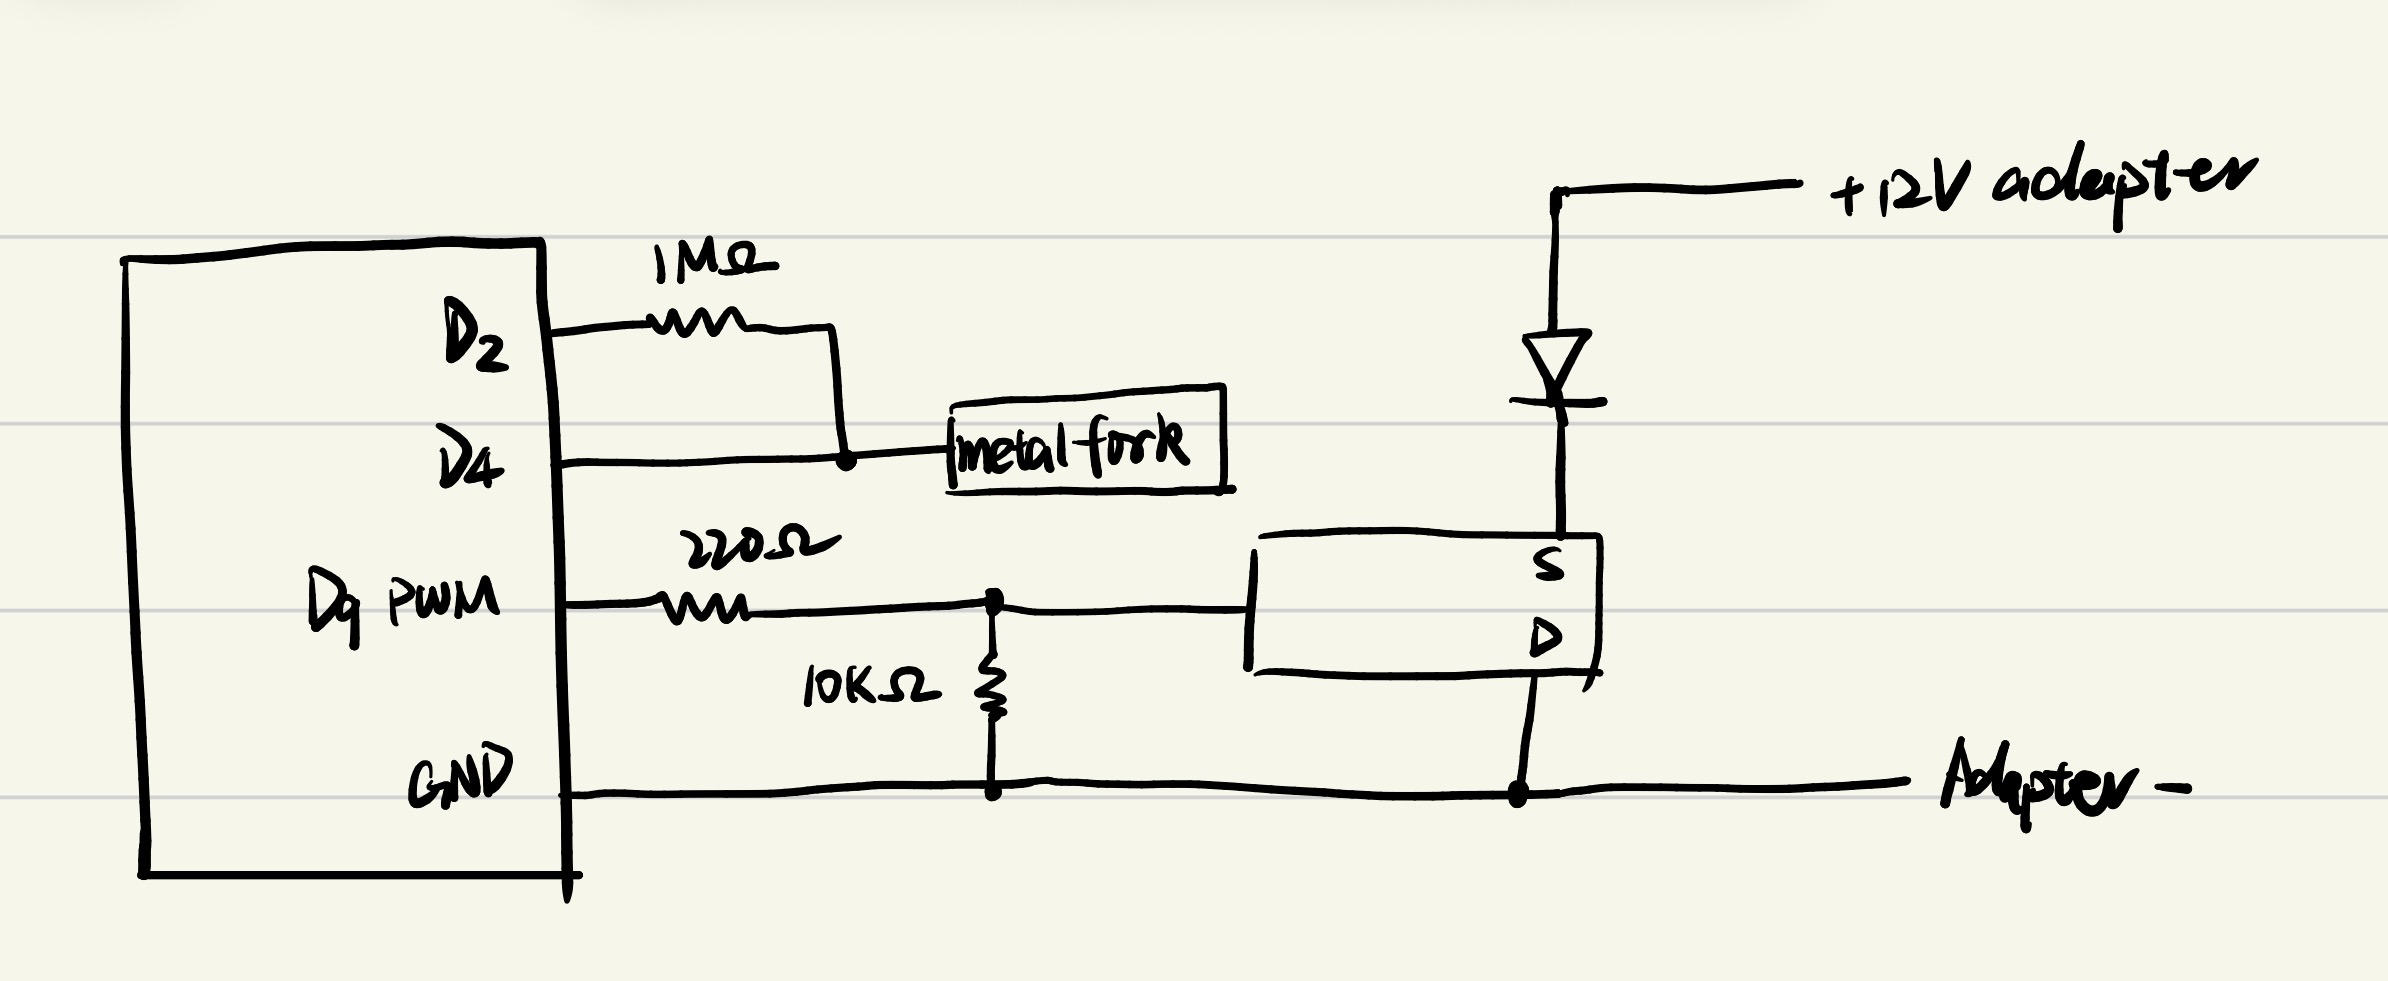
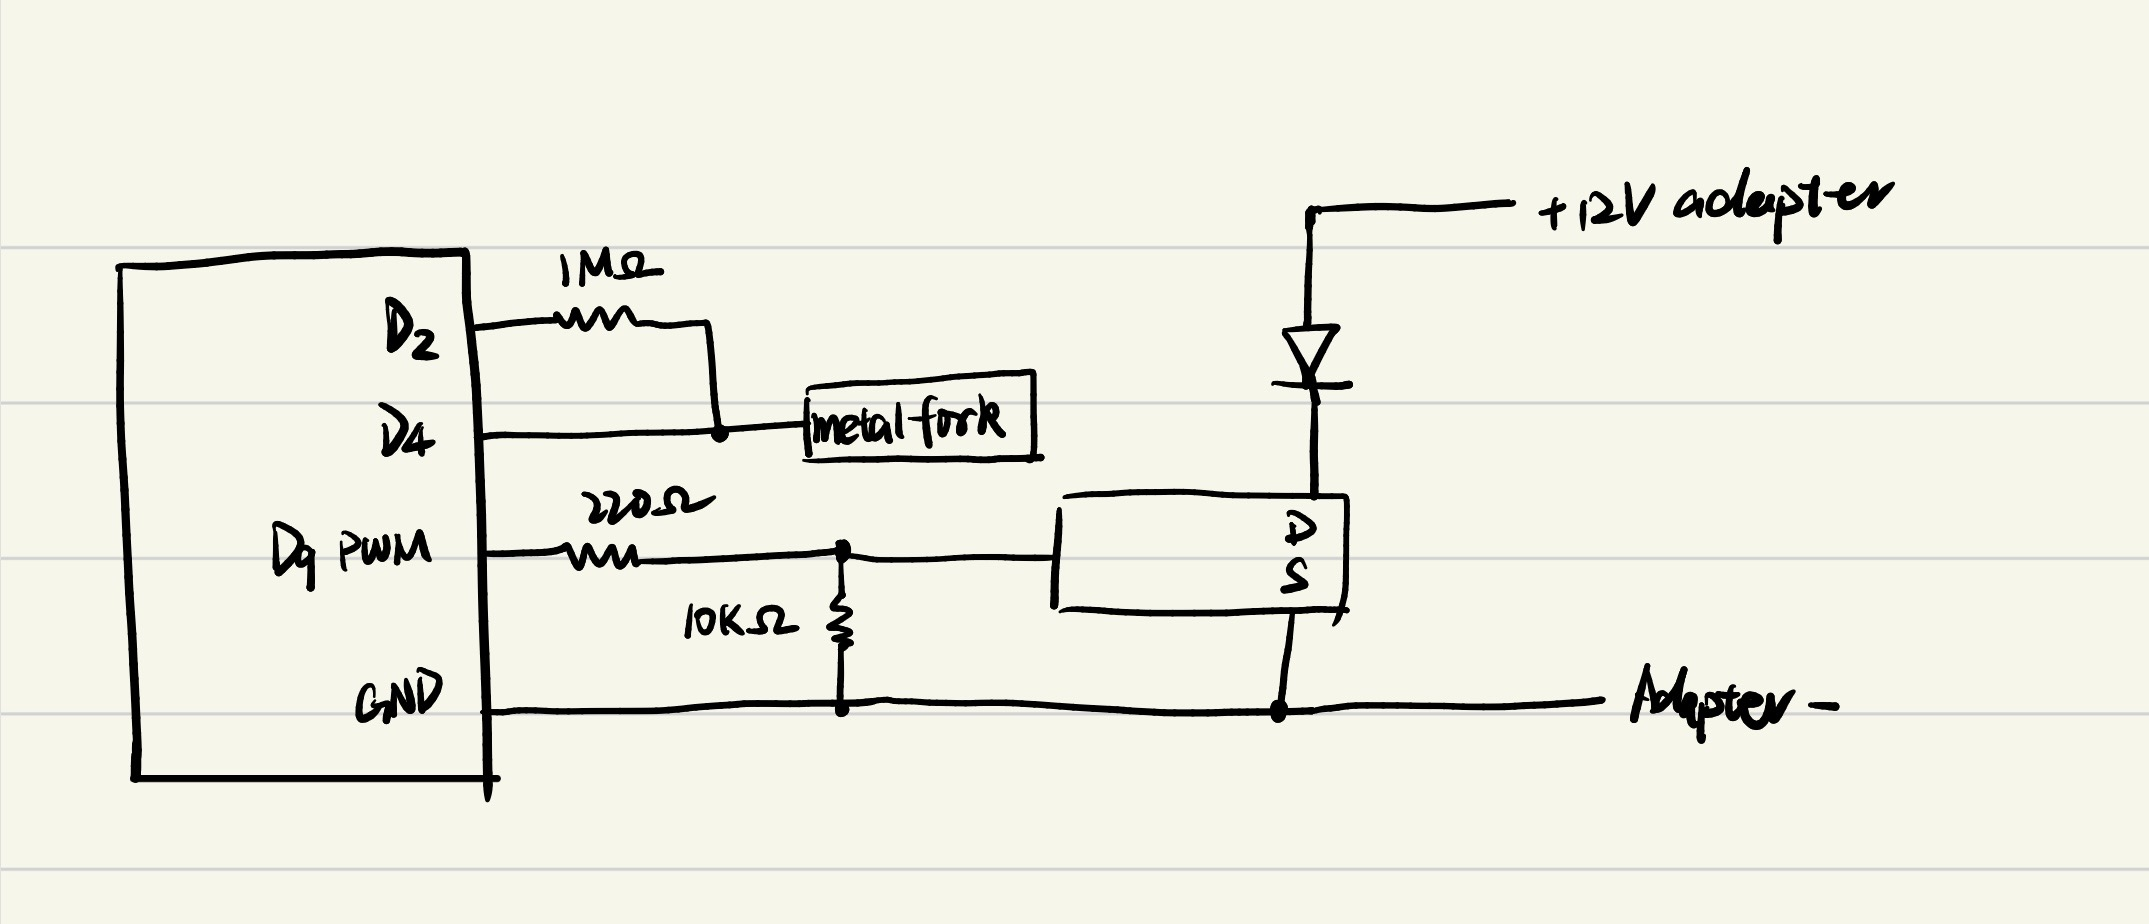
4

Changed region(s): [[0.0, 0.1515, 1.0, 0.9091], [0.0, 0.9394, 1.0, 0.9697], [0.0312, 0.8485, 0.0624, 0.8788]]

diff --git a/docs/assignment5.html b/docs/assignment5.html
@@ -11,6 +11,9 @@
     .a5-link { color:inherit; text-underline-offset:.2em; }
     .a5-question p + p, .a5-question figure, .a5-question pre, .a5-question ul { margin-top:1rem; }
     .a5-question figure { max-width:850px; }
+    .a5-motor-copy p { margin:1rem 0 0; font-size:clamp(1.125rem, 1.45vw, 1.3rem); line-height:1.55; }
+    .a5-motor-figure { align-self:start; }
+    .a5-question .a5-motor-figure { margin-top:0; }
     .a5-question pre { white-space:pre-wrap; }
     .a5-code { max-height:none; min-width:0; overflow-x:auto; }
     .code-section > * { min-width:0; }
@@ -52,7 +55,7 @@
       <div class="media-copy media-copy--wide">
         <figure class="project-figure">
           <a href="assets/a5-schematic.jpg"><img src="assets/a5-schematic.jpg" alt="Hand-drawn schematic showing the metal fork touch sensor, three resistors, and 12 V LED strip circuit."></a>
-          <figcaption>The 1 MΩ resistor gives the library a measurable RC timing change. The 220 Ω resistor limits transient gate charging current and the 10 kΩ pull-down keeps the MOSFET off while D9 is high impedance. The handwritten S and D labels are swapped: the upper terminal connected to the LED strip is drain (D), and the lower terminal connected to adapter negative is source (S).</figcaption>
+          <figcaption>The 1 MΩ resistor gives the library a measurable RC timing change. The 220 Ω resistor limits transient gate charging current and the 10 kΩ pull-down keeps the MOSFET off while D9 is high impedance. The drain (D) connects to the LED strip, and the source (S) connects to the adapter’s negative terminal.</figcaption>
         </figure>
         <div class="copy-stack">
           <p>The strip positive lead goes to +12 V. Its negative lead connects to the drain (pin 2), and the source (pin 3) returns to adapter negative and Arduino ground.</p>
@@ -85,9 +88,9 @@
             <source media="(prefers-reduced-motion: reduce)" srcset="assets/a5-poster.jpg">
             <img src="assets/a5-demo.gif" loading="lazy" alt="Repeated touches on the metal fork brighten the LED strip at the left of the frame, and releasing the fork dims it">
           </picture>
-          <figcaption>Animated recording of the assembled circuit. The fork is on the right and the LED strip is on the left. <a class="a5-link" href="assets/a5-demo.gif">Open the GIF</a>.</figcaption>
+          <figcaption>Animated recording of the assembled circuit. The fork is on the right and the LED strip is on the left.</figcaption>
         </figure>
-        <div class="copy-stack"><p>Holding the fork increases the PWM value by 5 each update, up to 255. Releasing the fork decreases it by 5 each update, down to zero.</p><p>A full ramp takes 51 updates, or about 0.77 seconds of programmed delays plus sensor and serial processing time.</p></div>
+        <div class="copy-stack"><p>Holding the fork increases the PWM value by 5 each update, up to 255. Releasing the fork decreases it by 5 each update, down to zero.</p></div>
       </div>
     </section>
 
@@ -164,10 +167,9 @@ void loop() {
     <section id="calculations" class="project-section project-section--paper" aria-labelledby="calculation-title">
       <div class="project-section__heading"><p class="section-number">04</p><div><p class="eyebrow eyebrow--dark">Analysis</p><h2 id="calculation-title">Voltage and current</h2></div></div>
       <div class="copy-stack">
-        <p>I used a 1 MΩ resistor between D2 and D4 so the touch library could detect small changes in the fork’s capacitance. The time constant is τ = RC. For example, if touch adds 20 pF, a 1 MΩ resistor gives a change of 20 µs, compared with 2 µs for a 100 kΩ resistor. When there is a full 5 V across the resistor, the peak current is about 5 V / 1 MΩ = 5 µA. My readings were around 200 at rest and 700–800 during touch, so I set the threshold to 450.</p>
-        <p>I used a 220 Ω series resistor to limit the brief current that charges the MOSFET gate when D9 switches high. A target of about 25 mA gives 5 V / 0.025 A = 200 Ω. At 220 Ω, the ideal initial current is about 5 V / 220 Ω = 22.7 mA. Using the datasheet’s 1.7 nF input capacitance as a rough model gives a time constant of 220 Ω × 1.7 nF ≈ 0.37 µs. Actual switching time depends on the gate charge and circuit conditions. The 10 kΩ pull-down holds the gate near 0 V while D9 is a high-impedance input. To keep steady current near or below 0.5 mA when D9 is high, the pull-down needs to be at least 5 V / 0.0005 A − 220 Ω = 9.78 kΩ. With 10 kΩ, the steady current is about 5 V / 10.22 kΩ = 0.49 mA, and the gate voltage is about 0.49 mA × 10 kΩ = 4.89 V.</p>
-        <p>At full brightness, the LED strip sees about 12 V minus the voltage drop across the MOSFET. When the strip is off, its current is approximately zero and the drain can sit near +12 V. If the strip’s rated power is P watts, its full-on current I<sub>on</sub> is approximately P / 12 V. A PWM value of 128 gives about 50% duty cycle, so the average strip current is about half of I<sub>on</sub>. The MOSFET carries the full I<sub>on</sub> during each on interval.</p>
-        <p>The strip’s rated wattage and measured full-on current are unavailable. Using the reference adapter’s 2 A rating as an example and the IRLZ44N datasheet’s 35 mΩ on-resistance at 4 V gate drive, the estimated voltage drop at full duty is 2 A × 0.035 Ω = 0.07 V and the conduction loss is (2 A)² × 0.035 Ω = 0.14 W. The actual current depends on the strip. The adapter, wiring, and operating temperature limit the usable current.</p>
+        <p>I used 1 MΩ between D2 and D4 to make small changes in the fork’s capacitance easier to detect. Since τ = RC, an example change of 20 pF adds 20 µs to the time constant. With 5 V across the resistor, the peak current is 5 V / 1 MΩ = 5 µA.</p>
+        <p>I used 220 Ω in series with the MOSFET gate to limit the brief charging current when D9 goes high. For a target of about 25 mA, 5 V / 25 mA = 200 Ω. With 220 Ω, the ideal peak is 5 V / 220 Ω ≈ 22.7 mA. The 10 kΩ pull-down holds the gate near 0 V at startup. To keep steady current below 0.5 mA when D9 is high, the pull-down needs to be at least 5 V / 0.5 mA − 220 Ω = 9.78 kΩ. With 10 kΩ, the steady current is about 0.49 mA and the gate voltage is about 4.89 V.</p>
+        <p>At full brightness, the LED strip sees close to 12 V. When off, the strip current is close to zero and the drain can sit near 12 V. The strip’s full-on current can be estimated by dividing its rated power by 12 V. The rated power and measured current are unavailable.</p>
       </div>
     </section>
 
@@ -181,10 +183,12 @@ void loop() {
       </article>
       <article class="question a5-question">
         <div class="question__number">02</div><div class="question__body">
-          <h3>DC motor with a flyback diode</h3>
-          <figure class="project-figure">
+          <div class="a5-motor-copy">
+            <h3>DC motor with a flyback diode</h3>
+            <p>The diode’s banded cathode faces +12 V. Its anode connects to the drain so motor current can recirculate when the MOSFET switches off. A 100 µF bulk capacitor supports the motor supply during load changes. A 100 nF ceramic capacitor bypasses higher-frequency noise.</p>
+          </div>
+          <figure class="project-figure a5-motor-figure">
             <a href="assets/a5-motor.jpg"><img src="assets/a5-motor.jpg" loading="lazy" alt="Arduino D9 drives an IRLZ44N that switches a DC motor. A flyback diode spans the motor, and two capacitors connect from 12 volts to ground."></a>
-            <figcaption>The diode’s banded cathode faces +12 V. Its anode connects to the drain so motor current can recirculate when the MOSFET switches off. A 100 µF bulk capacitor supports the motor supply during load changes. A 100 nF ceramic capacitor bypasses higher-frequency noise.</figcaption>
           </figure>
           <p>Example parts with documentation</p>
           <ul>
@@ -197,10 +201,12 @@ void loop() {
       </article>
       <article class="question a5-question">
         <div class="question__number">03</div><div class="question__body">
-          <h3>Two motors with an L293D</h3>
-          <figure class="project-figure">
+          <div class="a5-motor-copy">
+            <h3>Two motors with an L293D</h3>
+            <p>The Uno supplies 5 V to pin 16 for logic. An external 6 V supply powers pin 8 and the two motors. Pins 4, 5, 12 and 13 share Arduino and supply ground.</p>
+          </div>
+          <figure class="project-figure a5-motor-figure">
             <a href="assets/a5-dual-motor.jpg"><img src="assets/a5-dual-motor.jpg" loading="lazy" alt="Arduino controls the two L293D enable pins and four direction inputs. Motors connect across outputs 3 and 6, and 11 and 14. Logic and motor supplies share ground."></a>
-            <figcaption>The Uno supplies 5 V to pin 16 for logic. An external 6 V supply powers pin 8 and the two motors. Pins 4, 5, 12 and 13 share Arduino and supply ground.</figcaption>
           </figure>
           <p>Two 6 V Pololu #992 motors are an example load. Their specified stall current is about 0.36 A each, below the L293D’s 0.6 A continuous per-channel rating. The driver’s output voltage drop reduces the voltage across the motor. <a class="a5-link" href="https://www.ti.com/lit/ds/symlink/l293d.pdf">TI L293D datasheet</a> · <a class="a5-link" href="https://www.pololu.com/product/992">Pololu #992 motor specifications</a>.</p>
           <pre><code>// Configure the two PWM enables and four direction signals as outputs.
